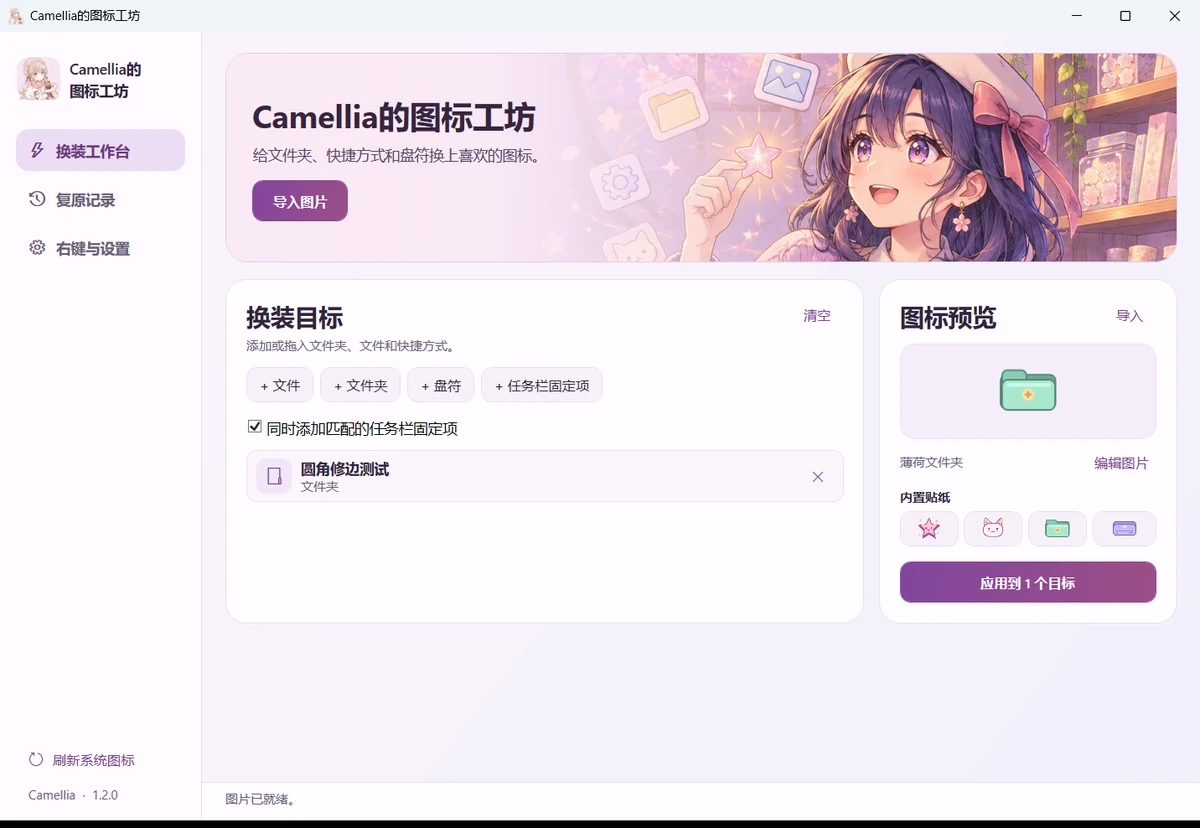
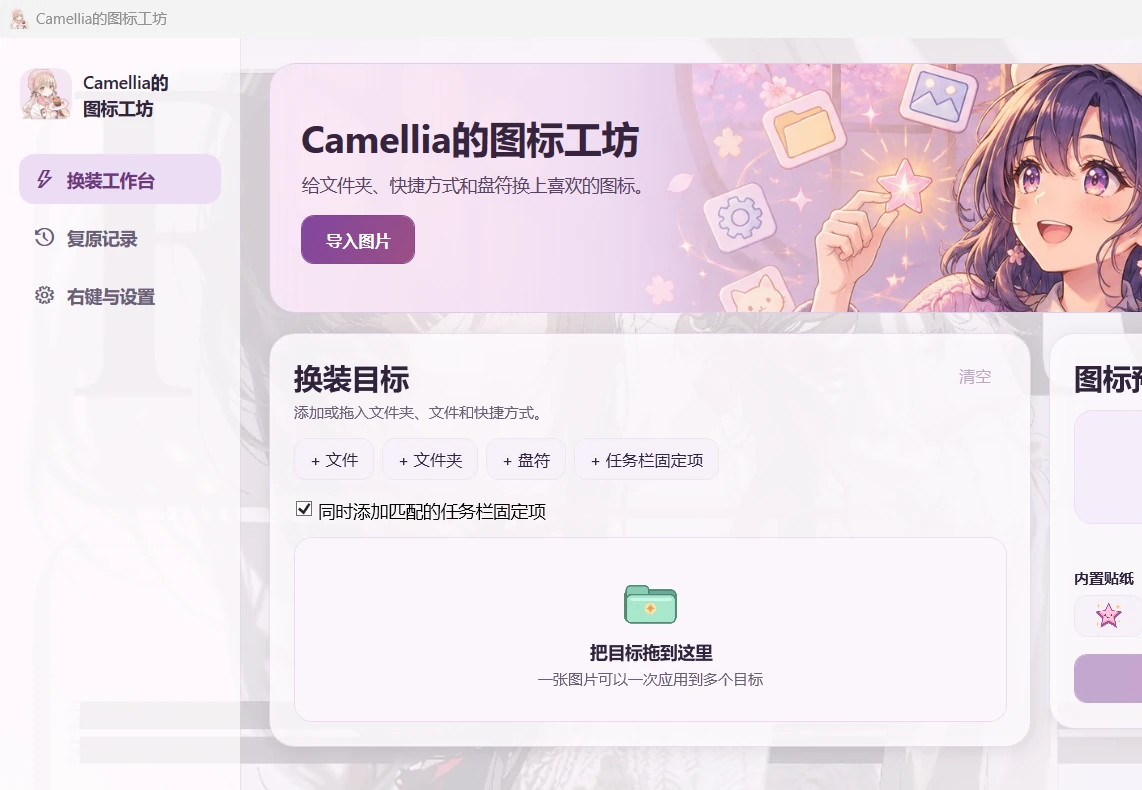
优化半透明壁纸界面并完善面板层次

diff --git a/src/Hanairo/MainWindow.xaml b/src/Hanairo/MainWindow.xaml
@@ -11,7 +11,14 @@
             <ColumnDefinition Width="193"/>
             <ColumnDefinition Width="*"/>
         </Grid.ColumnDefinitions>
-        <Border Background="#FFFBFE" BorderBrush="#E9DCEC" BorderThickness="0,0,1,0" Padding="15,23,15,15">
+        <Border Grid.ColumnSpan="2" Panel.ZIndex="0">
+            <Border.Background>
+                <ImageBrush ImageSource="/Assets/wallpaper.jpg" Stretch="UniformToFill"
+                            AlignmentX="Center" AlignmentY="Center"/>
+            </Border.Background>
+        </Border>
+        <Border Grid.ColumnSpan="2" Background="#A8F8F1F8" Panel.ZIndex="1"/>
+        <Border Panel.ZIndex="2" Background="#D9FFFBFE" BorderBrush="#B8E9DCEC" BorderThickness="0,0,1,0" Padding="15,23,15,15">
             <DockPanel>
                 <StackPanel DockPanel.Dock="Top" Orientation="Horizontal" Margin="1,1,0,27">
                     <Border Background="#F6E5F4" Width="42" Height="42" CornerRadius="12">
@@ -56,11 +63,11 @@
             </DockPanel>
         </Border>
 
-        <Grid Grid.Column="1">
+        <Grid Grid.Column="1" Panel.ZIndex="2">
             <Grid.Background>
                 <LinearGradientBrush StartPoint="0,0" EndPoint="1,1">
-                    <GradientStop Color="#FAF3F9" Offset="0"/>
-                    <GradientStop Color="#F3F0FC" Offset="1"/>
+                    <GradientStop Color="#80FAF3F9" Offset="0"/>
+                    <GradientStop Color="#74F3F0FC" Offset="1"/>
                 </LinearGradientBrush>
             </Grid.Background>
             <Grid.RowDefinitions>
@@ -78,9 +85,9 @@
                             <Border CornerRadius="20" Padding="25,21" VerticalAlignment="Stretch">
                                 <Border.Background>
                                     <LinearGradientBrush StartPoint="0,0" EndPoint="1,0">
-                                        <GradientStop Color="#FFFAEAF6" Offset="0"/>
-                                        <GradientStop Color="#F8FAEAF6" Offset=".28"/>
-                                        <GradientStop Color="#B2FAEAF6" Offset=".43"/>
+                                        <GradientStop Color="#E6FAEAF6" Offset="0"/>
+                                        <GradientStop Color="#B8FAEAF6" Offset=".28"/>
+                                        <GradientStop Color="#68FAEAF6" Offset=".43"/>
                                         <GradientStop Color="#00FAEAF6" Offset=".65"/>
                                     </LinearGradientBrush>
                                 </Border.Background>
@@ -264,7 +271,7 @@
                 </Grid>
             </ScrollViewer>
 
-            <Border Grid.Row="1" Background="#FFFCFF" BorderBrush="#E9DCEC" BorderThickness="0,1,0,0" Padding="22,7">
+            <Border Grid.Row="1" Background="#D9FFFCFF" BorderBrush="#B8E9DCEC" BorderThickness="0,1,0,0" Padding="22,7">
                 <DockPanel>
                     <Button x:Name="DetailsButton" DockPanel.Dock="Right" Style="{StaticResource Quiet}" Content="查看结果"
                             Visibility="Collapsed" MinHeight="25" Padding="8,2" Click="Details_Click"/>

diff --git a/src/Hanairo/App.xaml b/src/Hanairo/App.xaml
@@ -5,8 +5,8 @@
     <Application.Resources>
         <SolidColorBrush x:Key="Ink" Color="#30243D"/>
         <SolidColorBrush x:Key="Muted" Color="#695D78"/>
-        <SolidColorBrush x:Key="Paper" Color="#FFFCFF"/>
-        <SolidColorBrush x:Key="Line" Color="#EADDED"/>
+        <SolidColorBrush x:Key="Paper" Color="#D9FFFCFF"/>
+        <SolidColorBrush x:Key="Line" Color="#B8EADDED"/>
         <SolidColorBrush x:Key="Wash" Color="#F2E9F8"/>
         <SolidColorBrush x:Key="Plum" Color="#7A4191"/>
 
@@ -25,6 +25,11 @@
             <Setter Property="BorderThickness" Value="1"/>
             <Setter Property="CornerRadius" Value="20"/>
             <Setter Property="Padding" Value="19"/>
+            <Setter Property="Effect">
+                <Setter.Value>
+                    <DropShadowEffect BlurRadius="22" ShadowDepth="3" Opacity=".12" Color="#5A416D"/>
+                </Setter.Value>
+            </Setter>
         </Style>
         <Style TargetType="Button">
             <Setter Property="Foreground" Value="{StaticResource Ink}"/>

diff --git a/README.md b/README.md
@@ -2,7 +2,7 @@
 
 粉紫色的 Windows 图标换装工具。把文件、文件夹、快捷方式或盘符加入队列，导入一张图片或选一枚内置贴纸，一次应用到多个目标。每项换装都有复原记录。
 
-[下载 Windows x64 便携版](https://github.com/Camellia-Garden/self-define-icon/releases/download/v1.2.0/Hanairo.exe) · [发布说明](https://github.com/Camellia-Garden/self-define-icon/releases/tag/v1.2.0)
+[下载 Windows x64 便携版](https://github.com/Camellia-Garden/self-define-icon/releases/download/v1.3.0/Hanairo.exe) · [发布说明](https://github.com/Camellia-Garden/self-define-icon/releases/tag/v1.3.0)
 
 ![Camellia的图标工坊工作台](docs/preview.webp)
 
@@ -45,6 +45,7 @@
 
 ## 进度与验收
 
+- **v1.3.0** · 使用用户提供的插画作为整页半透明壁纸。参考 `E:\\wyfx\\api-test` 的背景图、半透明层和面板层次，加入柔和色罩、透明侧栏、半透明卡片和阴影，让壁纸在滚动、换装目标和预览区域后方保持可见。Windows 11 实测窗口和内容正常显示。
 - **v1.2.0** · 应用更名为「Camellia的图标工坊」，应用图标采用用户提供图片的透明主体。新增圆角和透明留边。已验证修边参数的保存、取消和重置，预览与 ICO 帧在同一颜色格式下像素一致，修边后的临时盘符图标可被 Windows 读取并正常复原。
 - **v1.1.0** · 已加入应用内裁剪、平移、缩放和多尺寸成品预览。Windows 11 实测通过横图导入和填满裁剪、取消编辑、保存后继续编辑、应用到测试文件夹和复原。自动检查核对了裁剪取景、透明留白和预览与 ICO 对应帧的像素。
 - **v1.0.0** · 已完成工作台、图片导入、批量换装、逐项与全部复原、右键入口、盘符设置和任务栏固定快捷方式管理。
@@ -81,3 +82,5 @@ $test.ExitCode
 应用图标使用用户提供的参考图，经内置图像编辑工具移除白色背景并裁取人物与甜点主体。透明素材位于 [app-logo.png](src/Hanairo/Assets/app-logo.png)，多尺寸 Windows 图标位于 [Hanairo.ico](src/Hanairo/Assets/Hanairo.ico)。图像编辑要求为保留人物与甜点的外观、去掉白底及气泡装饰、输出透明背景。
 
 便携包文件名沿用 Hanairo.exe。升级时可关闭旧版后在原位置替换；已开启的右键菜单可在设置中关闭再开启以更新显示名称。
+
+工作台壁纸素材位于 [wallpaper.jpg](src/Hanairo/Assets/wallpaper.jpg)，应用通过半透明色罩和半透明面板叠加使用，原图不会被修改。
